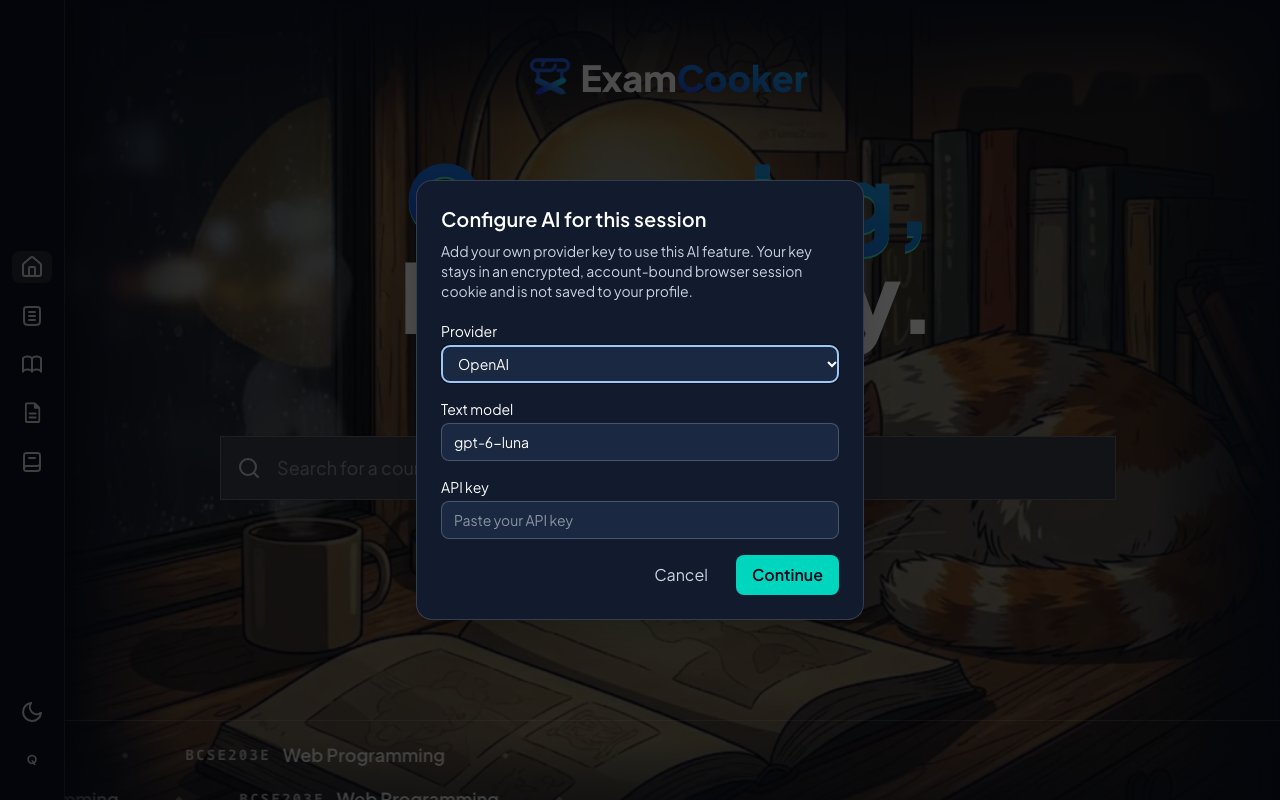
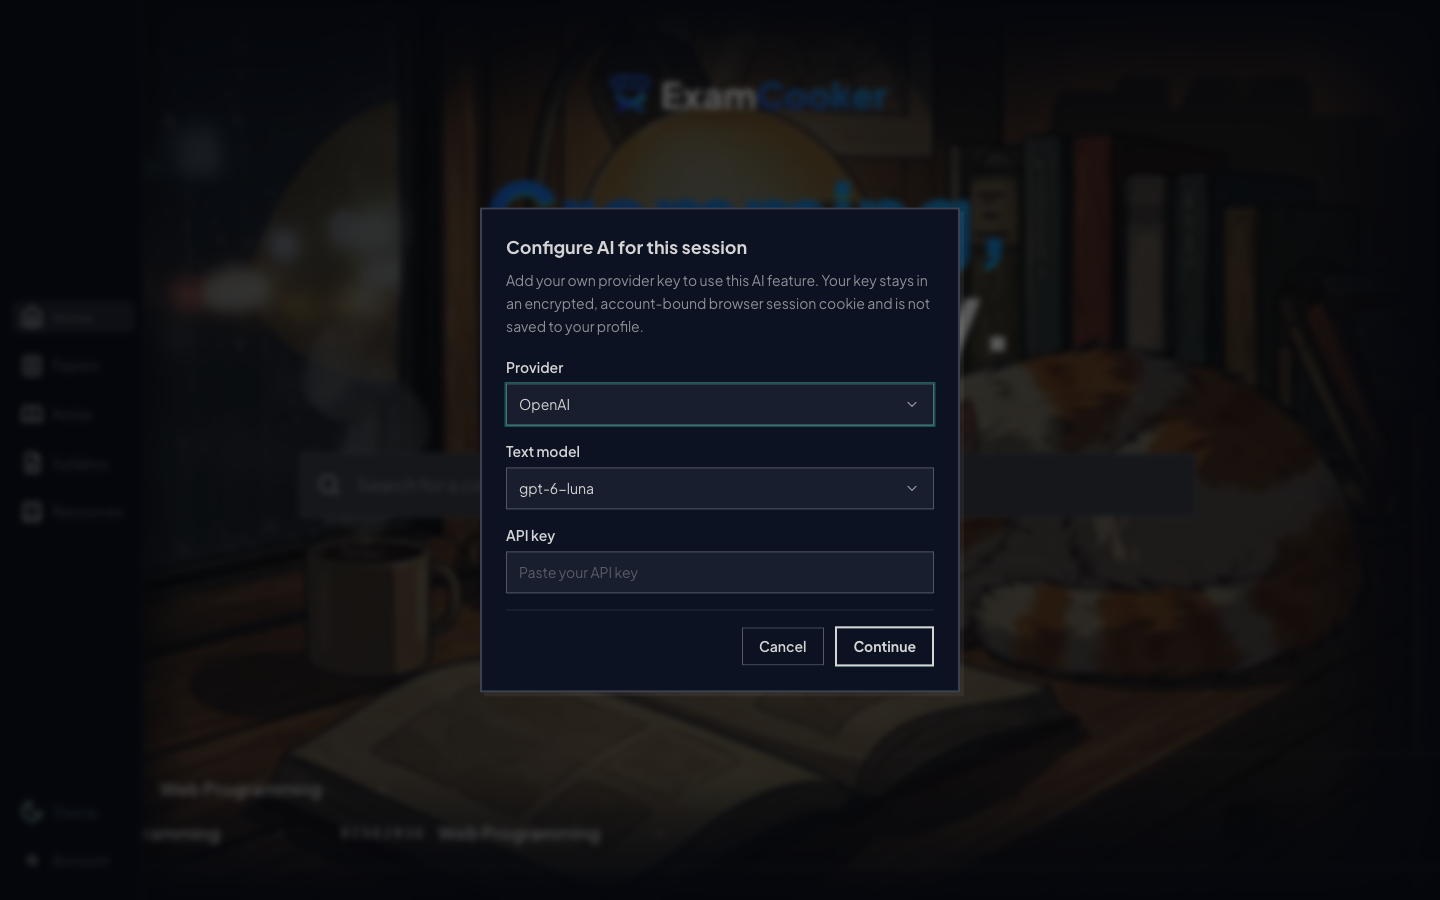
Match AI settings dialog to site controls

diff --git a/app/components/ai/ai-session-provider.tsx b/app/components/ai/ai-session-provider.tsx
@@ -1,6 +1,7 @@
 "use client";
 
 import * as Dialog from "@radix-ui/react-dialog";
+import { ChevronDown } from "lucide-react";
 import React, { createContext, useCallback, useContext, useRef, useState } from "react";
 
 type Provider = "openai" | "anthropic";
@@ -18,6 +19,12 @@ const DEFAULT_MODELS: Record<Provider, string> = {
   openai: "gpt-6-luna",
   anthropic: "claude-sonnet-5-5",
 };
+const MODEL_OPTIONS: Record<Provider, string[]> = {
+  openai: ["gpt-6-luna", "gpt-6-sol", "gpt-6-astra"],
+  anthropic: ["claude-haiku-5-5", "claude-sonnet-5-5", "claude-opus-5-5"],
+};
+const fieldClassName = "ec-focus-ring w-full border border-black/25 bg-white px-3 py-2.5 text-sm text-black outline-none placeholder:text-black/35 dark:border-white/25 dark:bg-white/5 dark:text-[#D5D5D5] dark:placeholder:text-[#D5D5D5]/35";
+const selectClassName = `${fieldClassName} appearance-none pr-11`;
 
 const AiSessionContext = createContext<{
   ensureAiReady: (feature?: Feature) => Promise<boolean>;
@@ -47,6 +54,7 @@ export function AiSessionProvider({ children }: { children: React.ReactNode }) {
   const [configurationVersion, setConfigurationVersion] = useState(0);
   const [error, setError] = useState<string | null>(null);
   const pendingRef = useRef<((configured: boolean) => void) | null>(null);
+  const modelOptions = MODEL_OPTIONS[provider];
 
   const show = useCallback((nextStatus: Status, nextFeature: Feature) => {
     const nextProvider = nextFeature === "voice" ? "openai" : nextStatus.provider;
@@ -124,10 +132,10 @@ export function AiSessionProvider({ children }: { children: React.ReactNode }) {
       {children}
       <Dialog.Root open={open} onOpenChange={(next) => { if (!next) close(false); }}>
         <Dialog.Portal>
-          <Dialog.Overlay className="fixed inset-0 z-[120] bg-black/70" />
-          <Dialog.Content className="fixed left-1/2 top-1/2 z-[121] w-[min(92vw,28rem)] -translate-x-1/2 -translate-y-1/2 rounded-2xl border border-white/15 bg-[#111b2d] p-6 text-white shadow-2xl">
-            <Dialog.Title className="text-xl font-semibold">Configure AI for this session</Dialog.Title>
-            <Dialog.Description className="mt-2 text-sm text-slate-300">
+          <Dialog.Overlay className="fixed inset-0 z-[120] bg-black/65 backdrop-blur-[3px]" />
+          <Dialog.Content className="fixed left-1/2 top-1/2 z-[121] max-h-[90dvh] w-[min(92vw,30rem)] -translate-x-1/2 -translate-y-1/2 overflow-y-auto border-2 border-[#5FC4E7] bg-white p-5 text-black shadow-[4px_4px_0_0_rgba(0,0,0,0.15)] outline-none dark:border-white/20 dark:bg-[#0C1222] dark:text-[#D5D5D5] dark:shadow-[4px_4px_0_0_rgba(255,255,255,0.05)] sm:p-6">
+            <Dialog.Title className="text-lg font-bold">Configure AI for this session</Dialog.Title>
+            <Dialog.Description className="mt-2 text-sm leading-relaxed text-black/65 dark:text-[#D5D5D5]/65">
               {feature === "voice"
                 ? "Voice study uses OpenAI Live. Add an OpenAI key with access to gpt-live-1 to start it."
                 : "Add your own provider key to use this AI feature."}
@@ -135,44 +143,44 @@ export function AiSessionProvider({ children }: { children: React.ReactNode }) {
             </Dialog.Description>
             <form onSubmit={save} className="mt-5 space-y-4">
               <label className="block text-sm">
-                <span className="mb-1 block">Provider</span>
-                <select
-                  className="w-full rounded-lg border border-white/20 bg-[#1a2941] px-3 py-2"
-                  value={provider}
-                  disabled={feature === "voice"}
-                  onChange={(event) => {
-                    const next = event.target.value as Provider;
-                    setProvider(next);
-                    setModel(DEFAULT_MODELS[next]);
-                    setApiKey("");
-                  }}
-                >
-                  <option value="openai">OpenAI</option>
-                  <option value="anthropic">Anthropic</option>
-                </select>
+                <span className="mb-1.5 block font-semibold">Provider</span>
+                <span className="relative block">
+                  <select
+                    className={selectClassName}
+                    value={provider}
+                    disabled={feature === "voice"}
+                    onChange={(event) => {
+                      const next = event.target.value as Provider;
+                      setProvider(next);
+                      setModel(DEFAULT_MODELS[next]);
+                      setApiKey("");
+                    }}
+                  >
+                    <option value="openai">OpenAI</option>
+                    <option value="anthropic">Anthropic</option>
+                  </select>
+                  <ChevronDown className="pointer-events-none absolute right-3.5 top-1/2 size-4 -translate-y-1/2 text-black/55 dark:text-[#D5D5D5]/65" aria-hidden />
+                </span>
               </label>
               {feature !== "voice" && <label className="block text-sm">
-                <span className="mb-1 block">Text model</span>
-                <input
-                  className="w-full rounded-lg border border-white/20 bg-[#1a2941] px-3 py-2"
-                  value={model}
-                  onChange={(event) => setModel(event.target.value)}
-                  list="ai-model-options"
-                  maxLength={100}
-                  autoComplete="off"
-                  required
-                />
-                <datalist id="ai-model-options">
-                  {(provider === "openai"
-                    ? ["gpt-6-luna", "gpt-6-sol", "gpt-6-astra"]
-                    : ["claude-haiku-5-5", "claude-sonnet-5-5", "claude-opus-5-5"])
-                    .map((option) => <option key={option} value={option} />)}
-                </datalist>
+                <span className="mb-1.5 block font-semibold">Text model</span>
+                <span className="relative block">
+                  <select
+                    className={selectClassName}
+                    value={model}
+                    onChange={(event) => setModel(event.target.value)}
+                    required
+                  >
+                    {!modelOptions.includes(model) && <option value={model}>{model}</option>}
+                    {modelOptions.map((option) => <option key={option} value={option}>{option}</option>)}
+                  </select>
+                  <ChevronDown className="pointer-events-none absolute right-3.5 top-1/2 size-4 -translate-y-1/2 text-black/55 dark:text-[#D5D5D5]/65" aria-hidden />
+                </span>
               </label>}
               <label className="block text-sm">
-                <span className="mb-1 block">API key</span>
+                <span className="mb-1.5 block font-semibold">API key</span>
                 <input
-                  className="w-full rounded-lg border border-white/20 bg-[#1a2941] px-3 py-2"
+                  className={fieldClassName}
                   type="password"
                   value={apiKey}
                   onChange={(event) => setApiKey(event.target.value)}
@@ -182,15 +190,18 @@ export function AiSessionProvider({ children }: { children: React.ReactNode }) {
                   required={!status?.configuredProviders.includes(provider)}
                 />
               </label>
-              {error && <p role="alert" className="text-sm text-red-300">{error}</p>}
-              <div className="flex justify-end gap-3">
+              {error && <p role="alert" className="text-sm text-red-700 dark:text-red-300">{error}</p>}
+              <div className="flex flex-wrap items-center justify-end gap-3 border-t border-black/10 pt-4 dark:border-white/10">
                 {status?.sessionProviders.length ? (
-                  <button type="button" disabled={saving} className="mr-auto rounded-lg px-2 py-2 text-sm text-red-300" onClick={() => void forget()}>Forget session keys</button>
+                  <button type="button" disabled={saving} className="mr-auto px-2 py-2 text-sm font-semibold text-red-700 hover:underline disabled:opacity-50 dark:text-red-300" onClick={() => void forget()}>Forget session keys</button>
                 ) : null}
-                <button type="button" className="rounded-lg px-4 py-2 text-slate-300" onClick={() => close(false)}>Cancel</button>
-                <button type="submit" disabled={saving} className="rounded-lg bg-teal-400 px-4 py-2 font-semibold text-slate-950 disabled:opacity-50">
-                  {saving ? "Saving…" : "Continue"}
-                </button>
+                <button type="button" className="ec-press border border-black/30 px-4 py-2 text-sm font-semibold transition hover:border-black dark:border-white/30 dark:hover:border-white" onClick={() => close(false)}>Cancel</button>
+                <span className="group relative inline-flex h-10 items-stretch">
+                  <span aria-hidden="true" className="absolute inset-0 bg-[#0A0F1C] group-has-[:disabled]:hidden dark:bg-[#3BF4C7]" />
+                  <button type="submit" disabled={saving} className="relative inline-flex h-full items-center border-2 border-black bg-[#3BF4C7] px-4 text-sm font-bold text-black transition duration-150 enabled:group-hover:-translate-x-1 enabled:group-hover:-translate-y-1 disabled:cursor-wait disabled:opacity-60 dark:border-[#D5D5D5] dark:bg-[#0C1222] dark:text-[#D5D5D5] dark:enabled:group-hover:border-[#3BF4C7] dark:enabled:group-hover:text-[#3BF4C7]">
+                    {saving ? "Saving…" : "Continue"}
+                  </button>
+                </span>
               </div>
             </form>
           </Dialog.Content>
